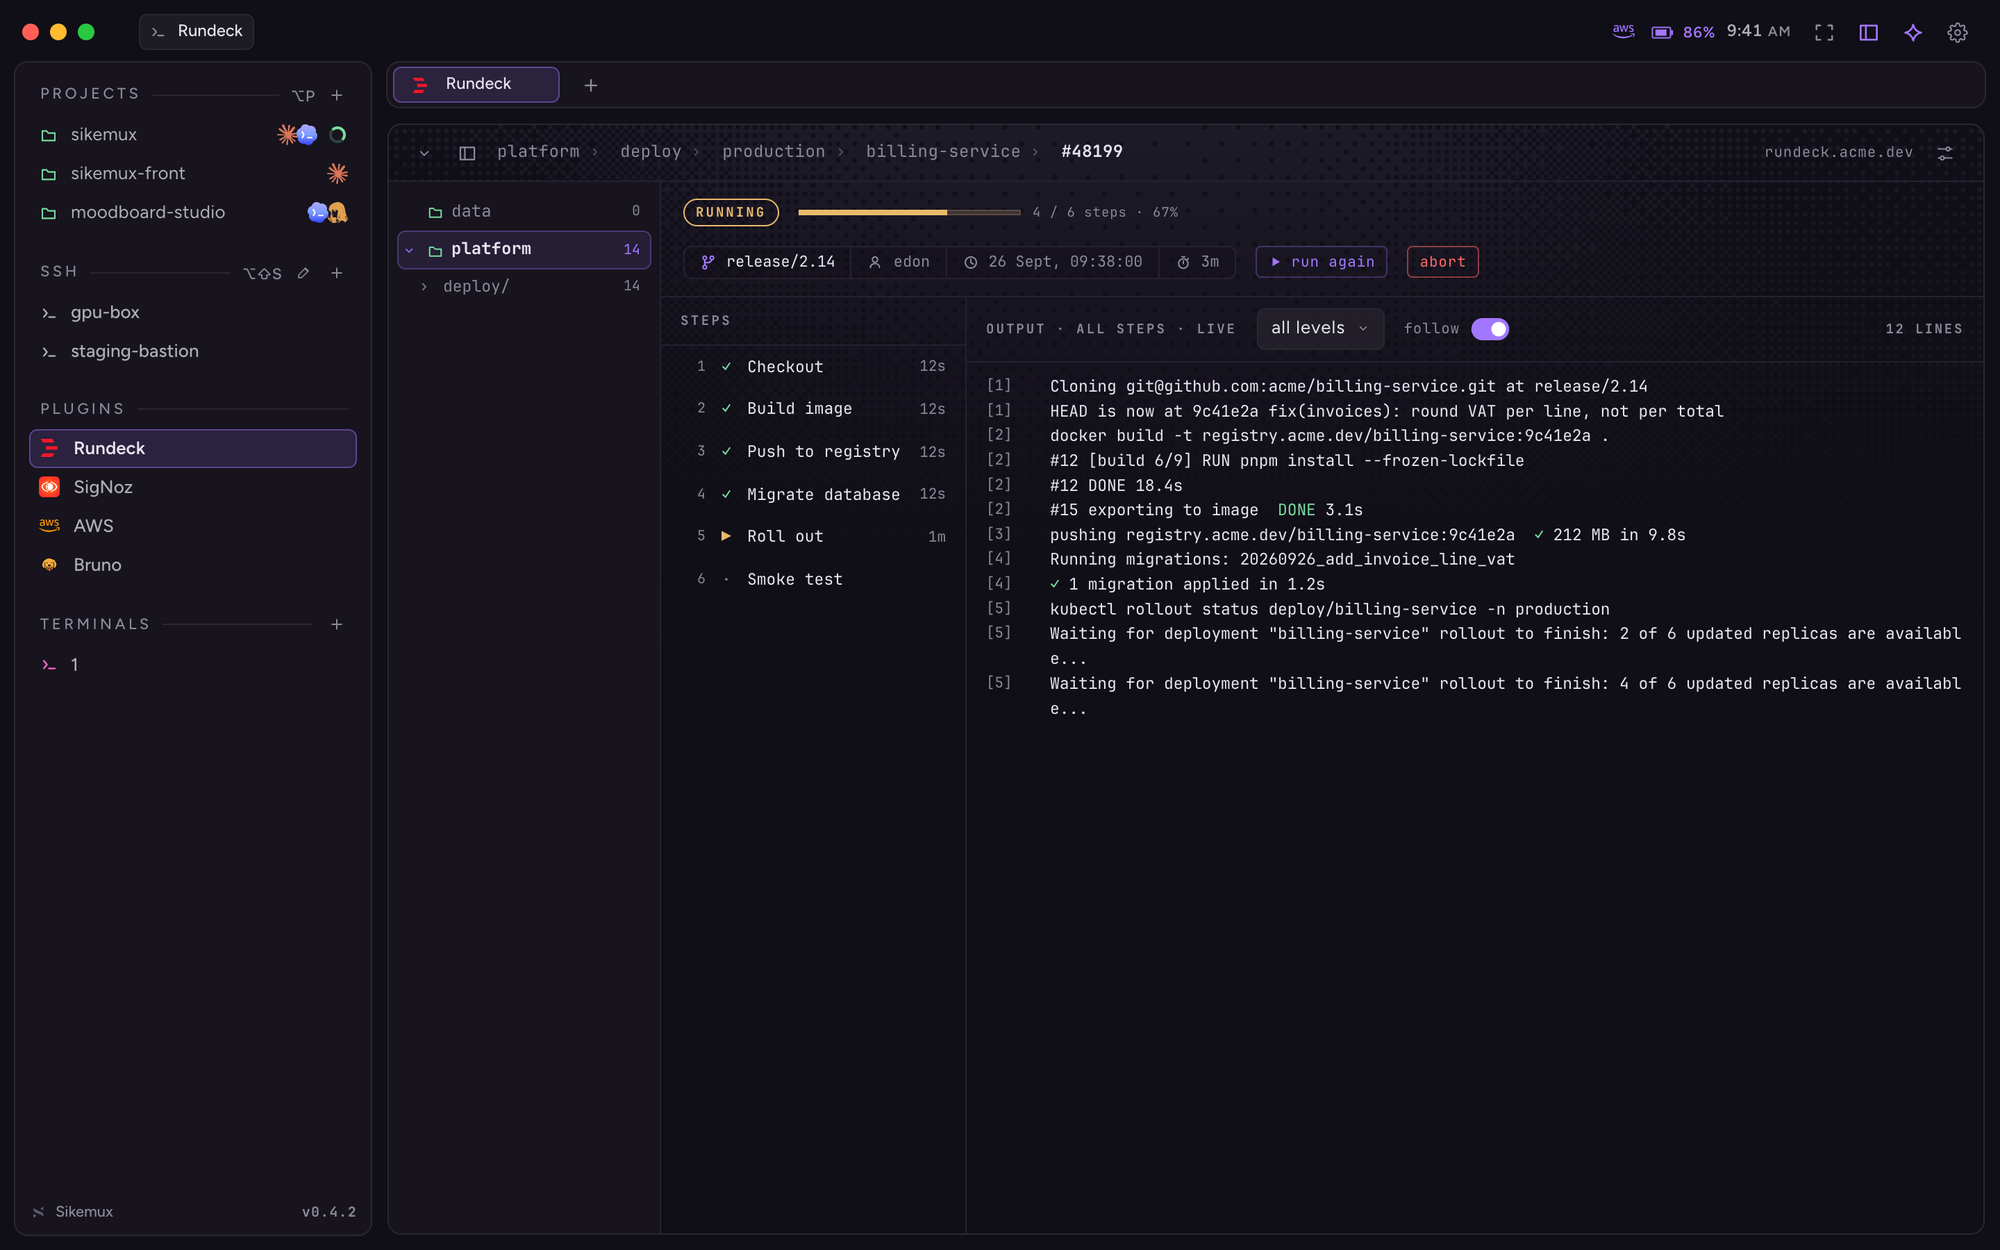
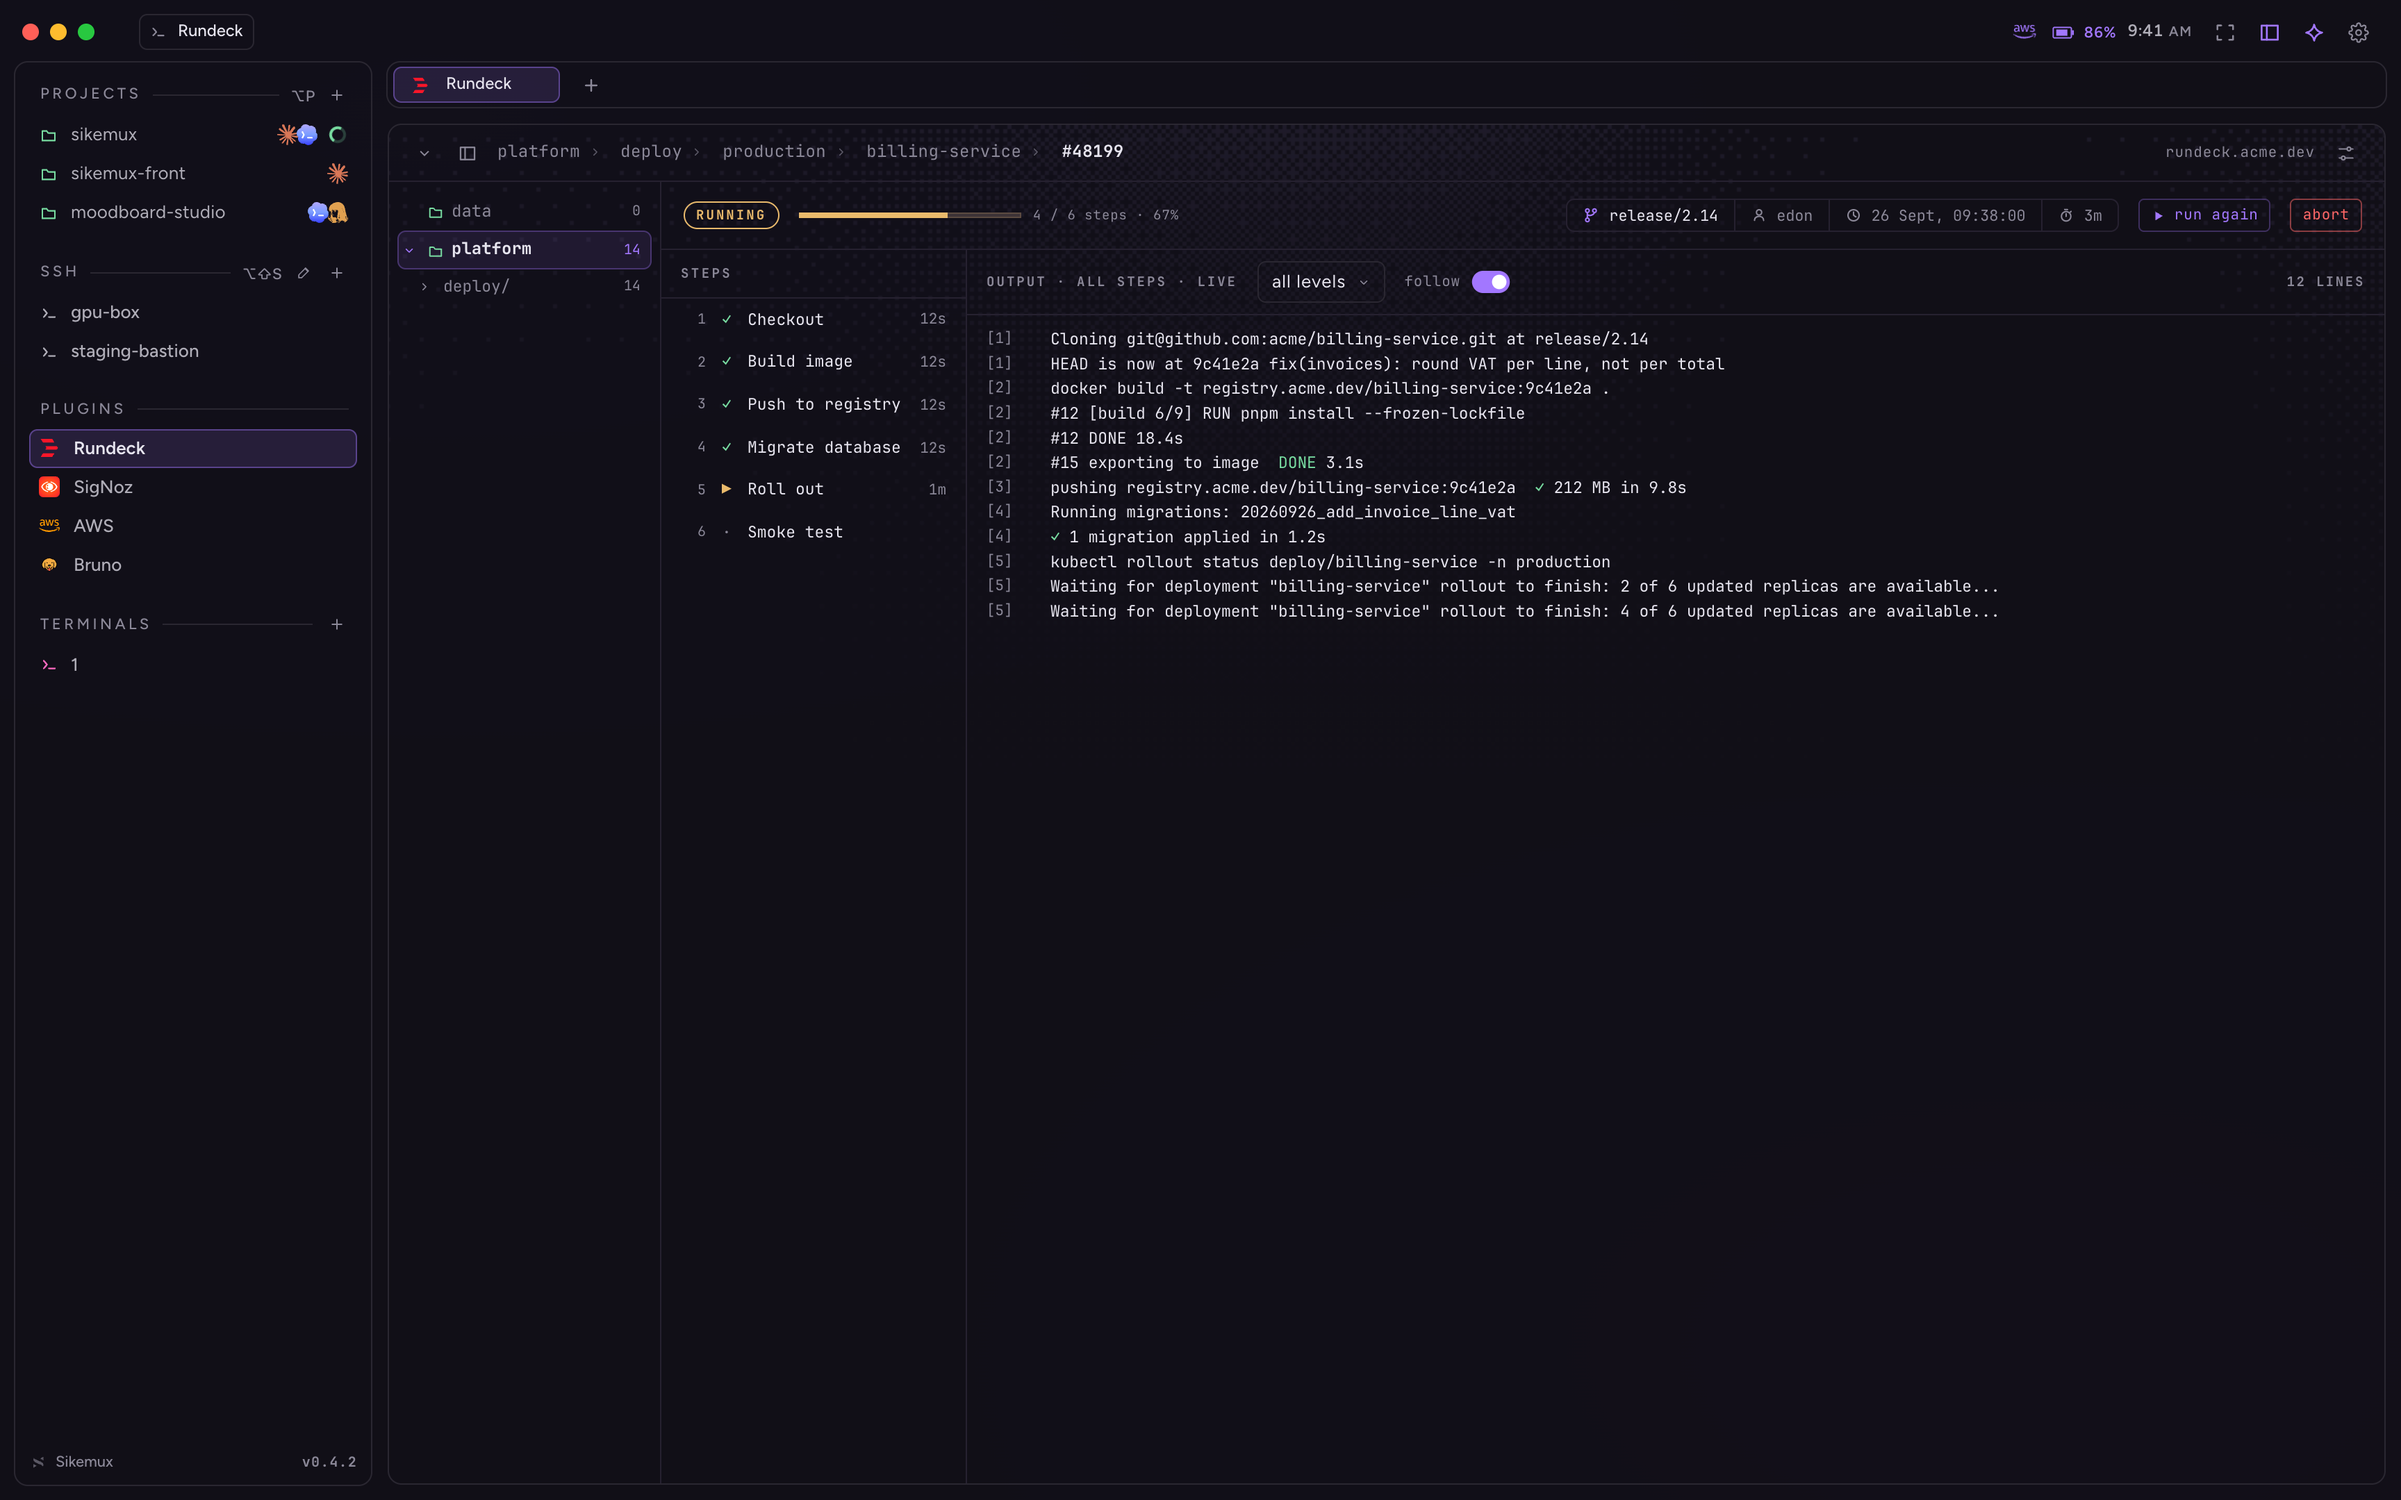
feat(showcase): captures match a real window, wider
The demo window runs at 0.81 opacity with the pane shader over a navy
wallpaper, like a real desktop, instead of a flat opaque theme. Scenes
render at 1728x1080 so the centre pane has room, and the agent rail is
256px.

diff --git a/showcase/world/workspace.ts b/showcase/world/workspace.ts
@@ -294,7 +294,10 @@ export function demoSnapshot(): PersistedSnapshot {
     prefs: {
       projectRoots: [{ path: `${DEMO_HOME}/code`, depth: 1 }],
       themeId: "aura",
-      windowOpacity: 1,
+      windowOpacity: 0.81,
+      paneShader: true,
+      sideRailWidth: 258,
+      agentRailWidth: 256,
       windowBlur: 0,
       cloudBrowser: "",
       cloudBrowserShortcut: "",

diff --git a/showcase/showcase.css b/showcase/showcase.css
@@ -1,3 +1,9 @@
+html {
+  background:
+    radial-gradient(90% 70% at 18% 8%, #1b1d5c 0%, transparent 60%),
+    radial-gradient(70% 60% at 85% 90%, #2a0f4a 0%, transparent 65%), #03041a;
+}
+
 .tb-left {
   position: relative;
 }
